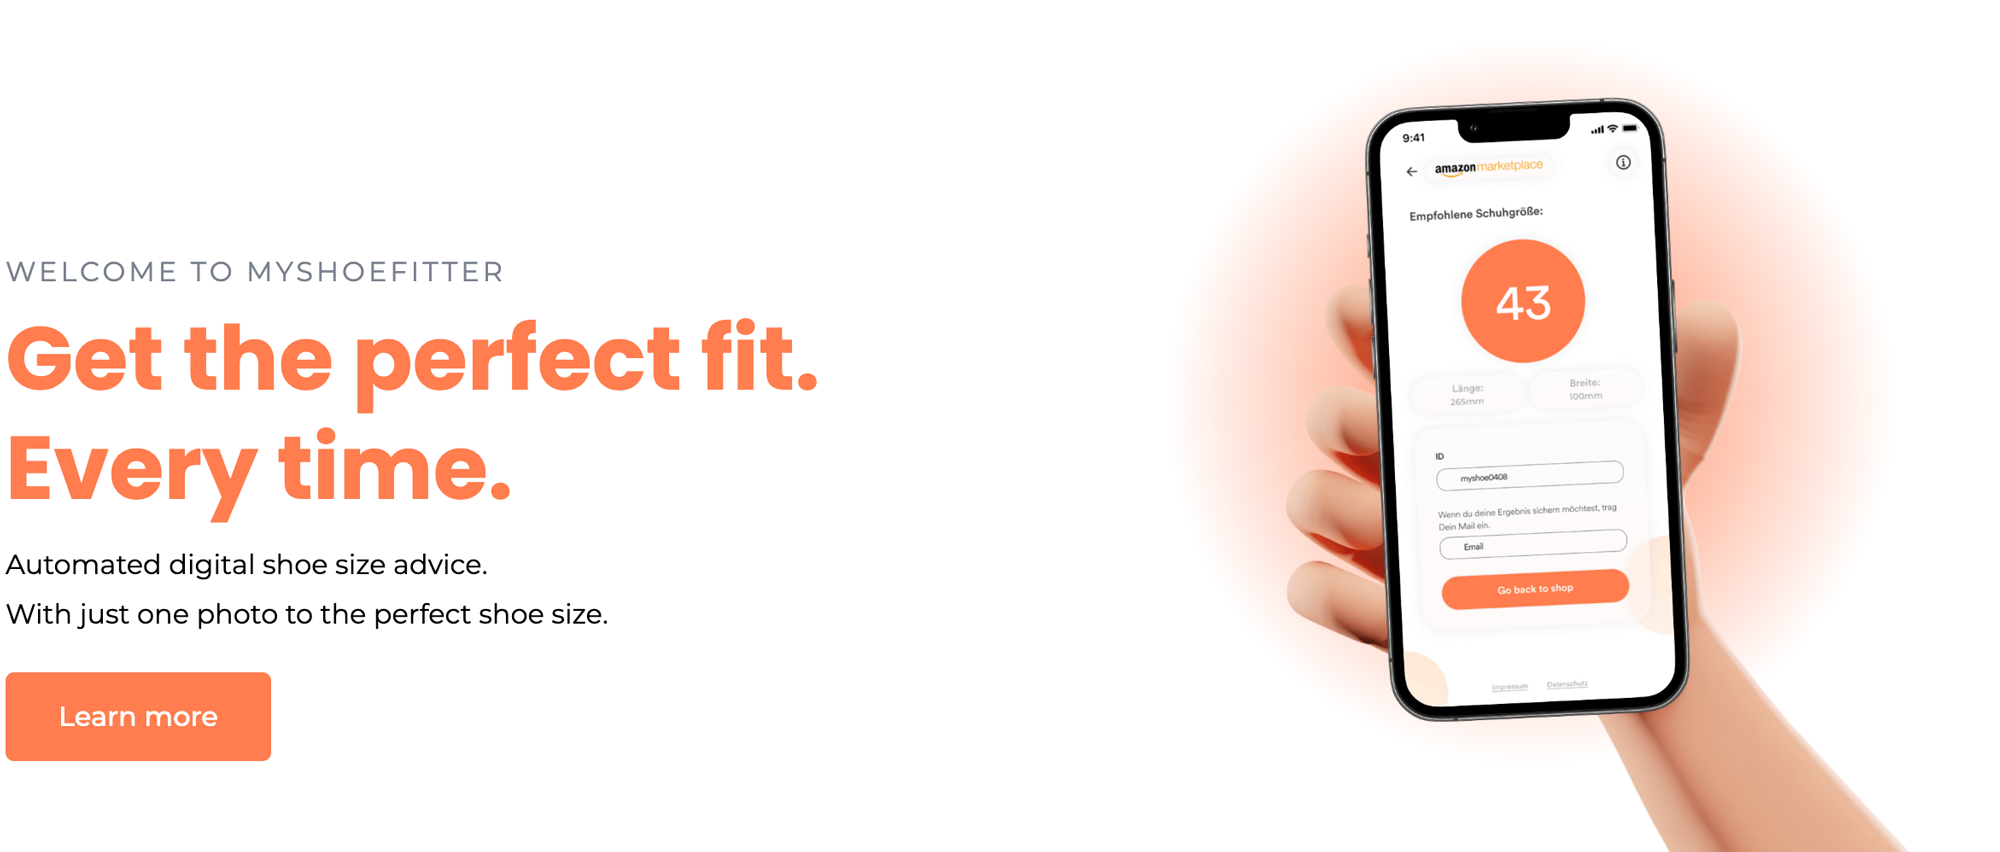
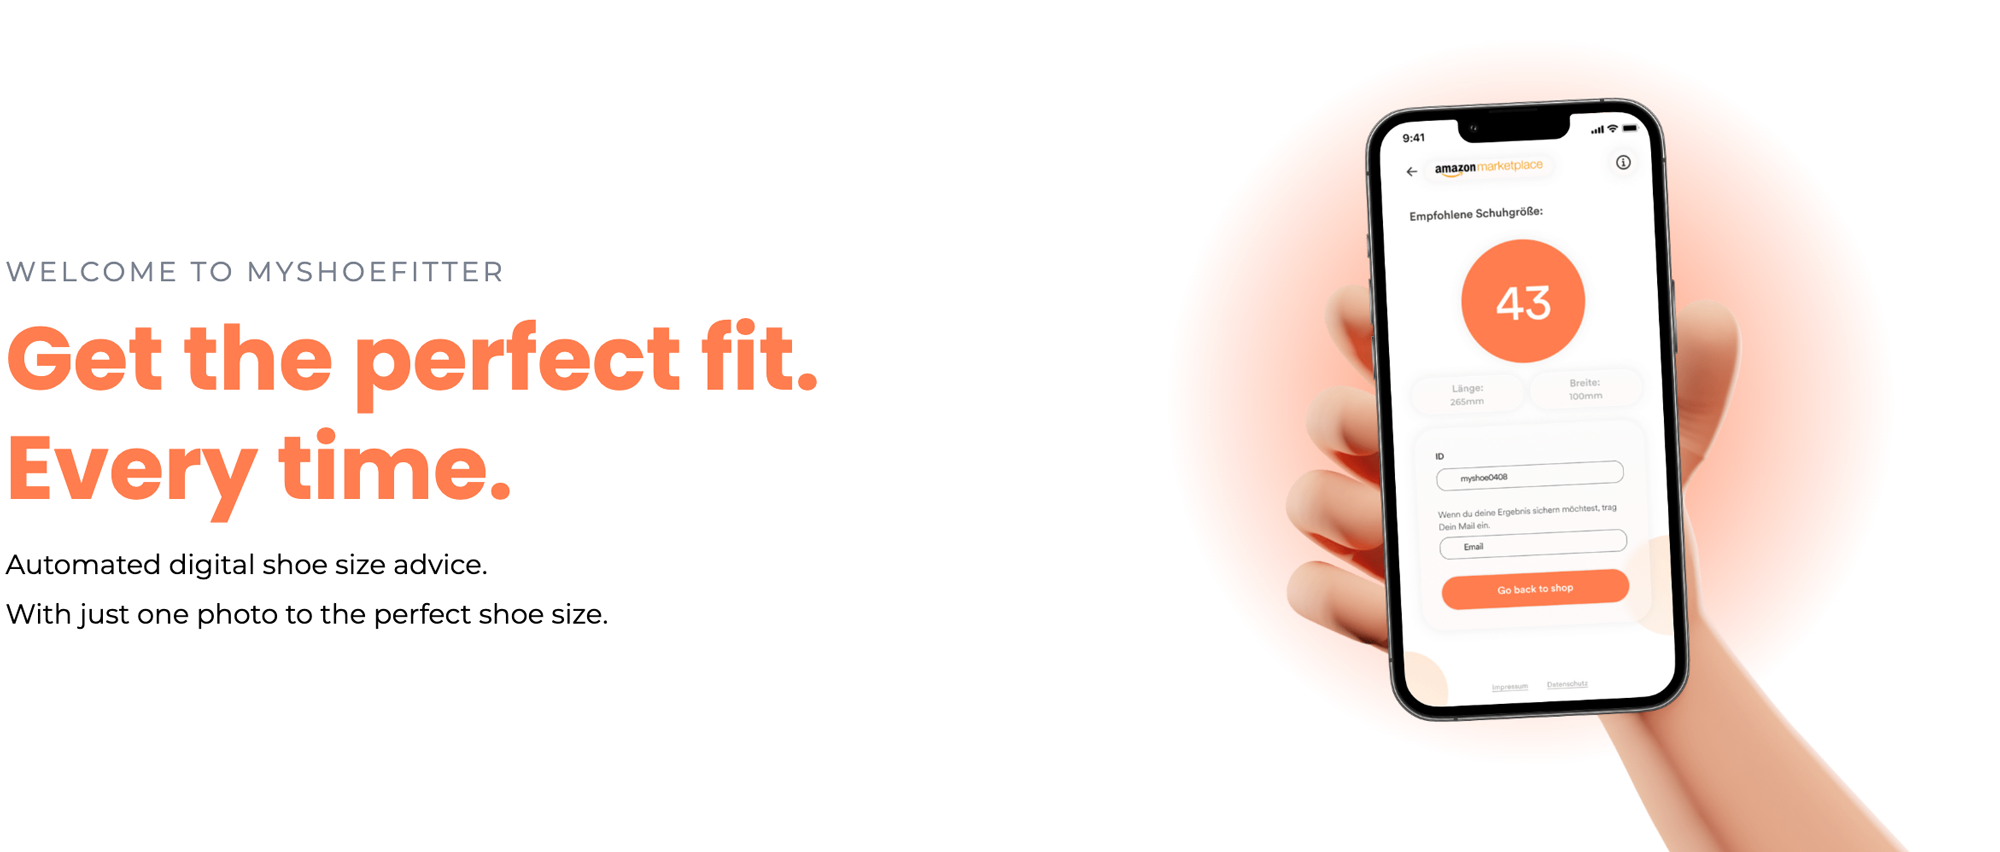
chore(home): add button that links to website

Changed region(s): [[0.0, 0.7629, 0.155, 0.9155]]

diff --git a/styles.scss b/styles.scss
@@ -47,3 +47,27 @@ a[href="https://status.myshoefitter.com"] {
   background-position: left;
   padding-left: 26px;
 }
+
+.primary-button {
+  color: #ffffff;
+  -webkit-text-fill-color: inherit;
+  background-color: #ff7d4f;
+  background-clip: border-box;
+  border: 3px solid #ff7d4f;
+  border-radius: 10px;
+  justify-content: center;
+  align-items: center;
+  padding: 15px 30px;
+  font-family: Montserrat, sans-serif;
+  font-weight: 600;
+  line-height: 20px;
+  text-decoration: none;
+  transition: all .2s;
+  display: inline-flex;
+  margin: 20px 0;
+}
+
+.primary-button:hover {
+  color: var(--main-orange);
+  background-color: transparent;
+}
